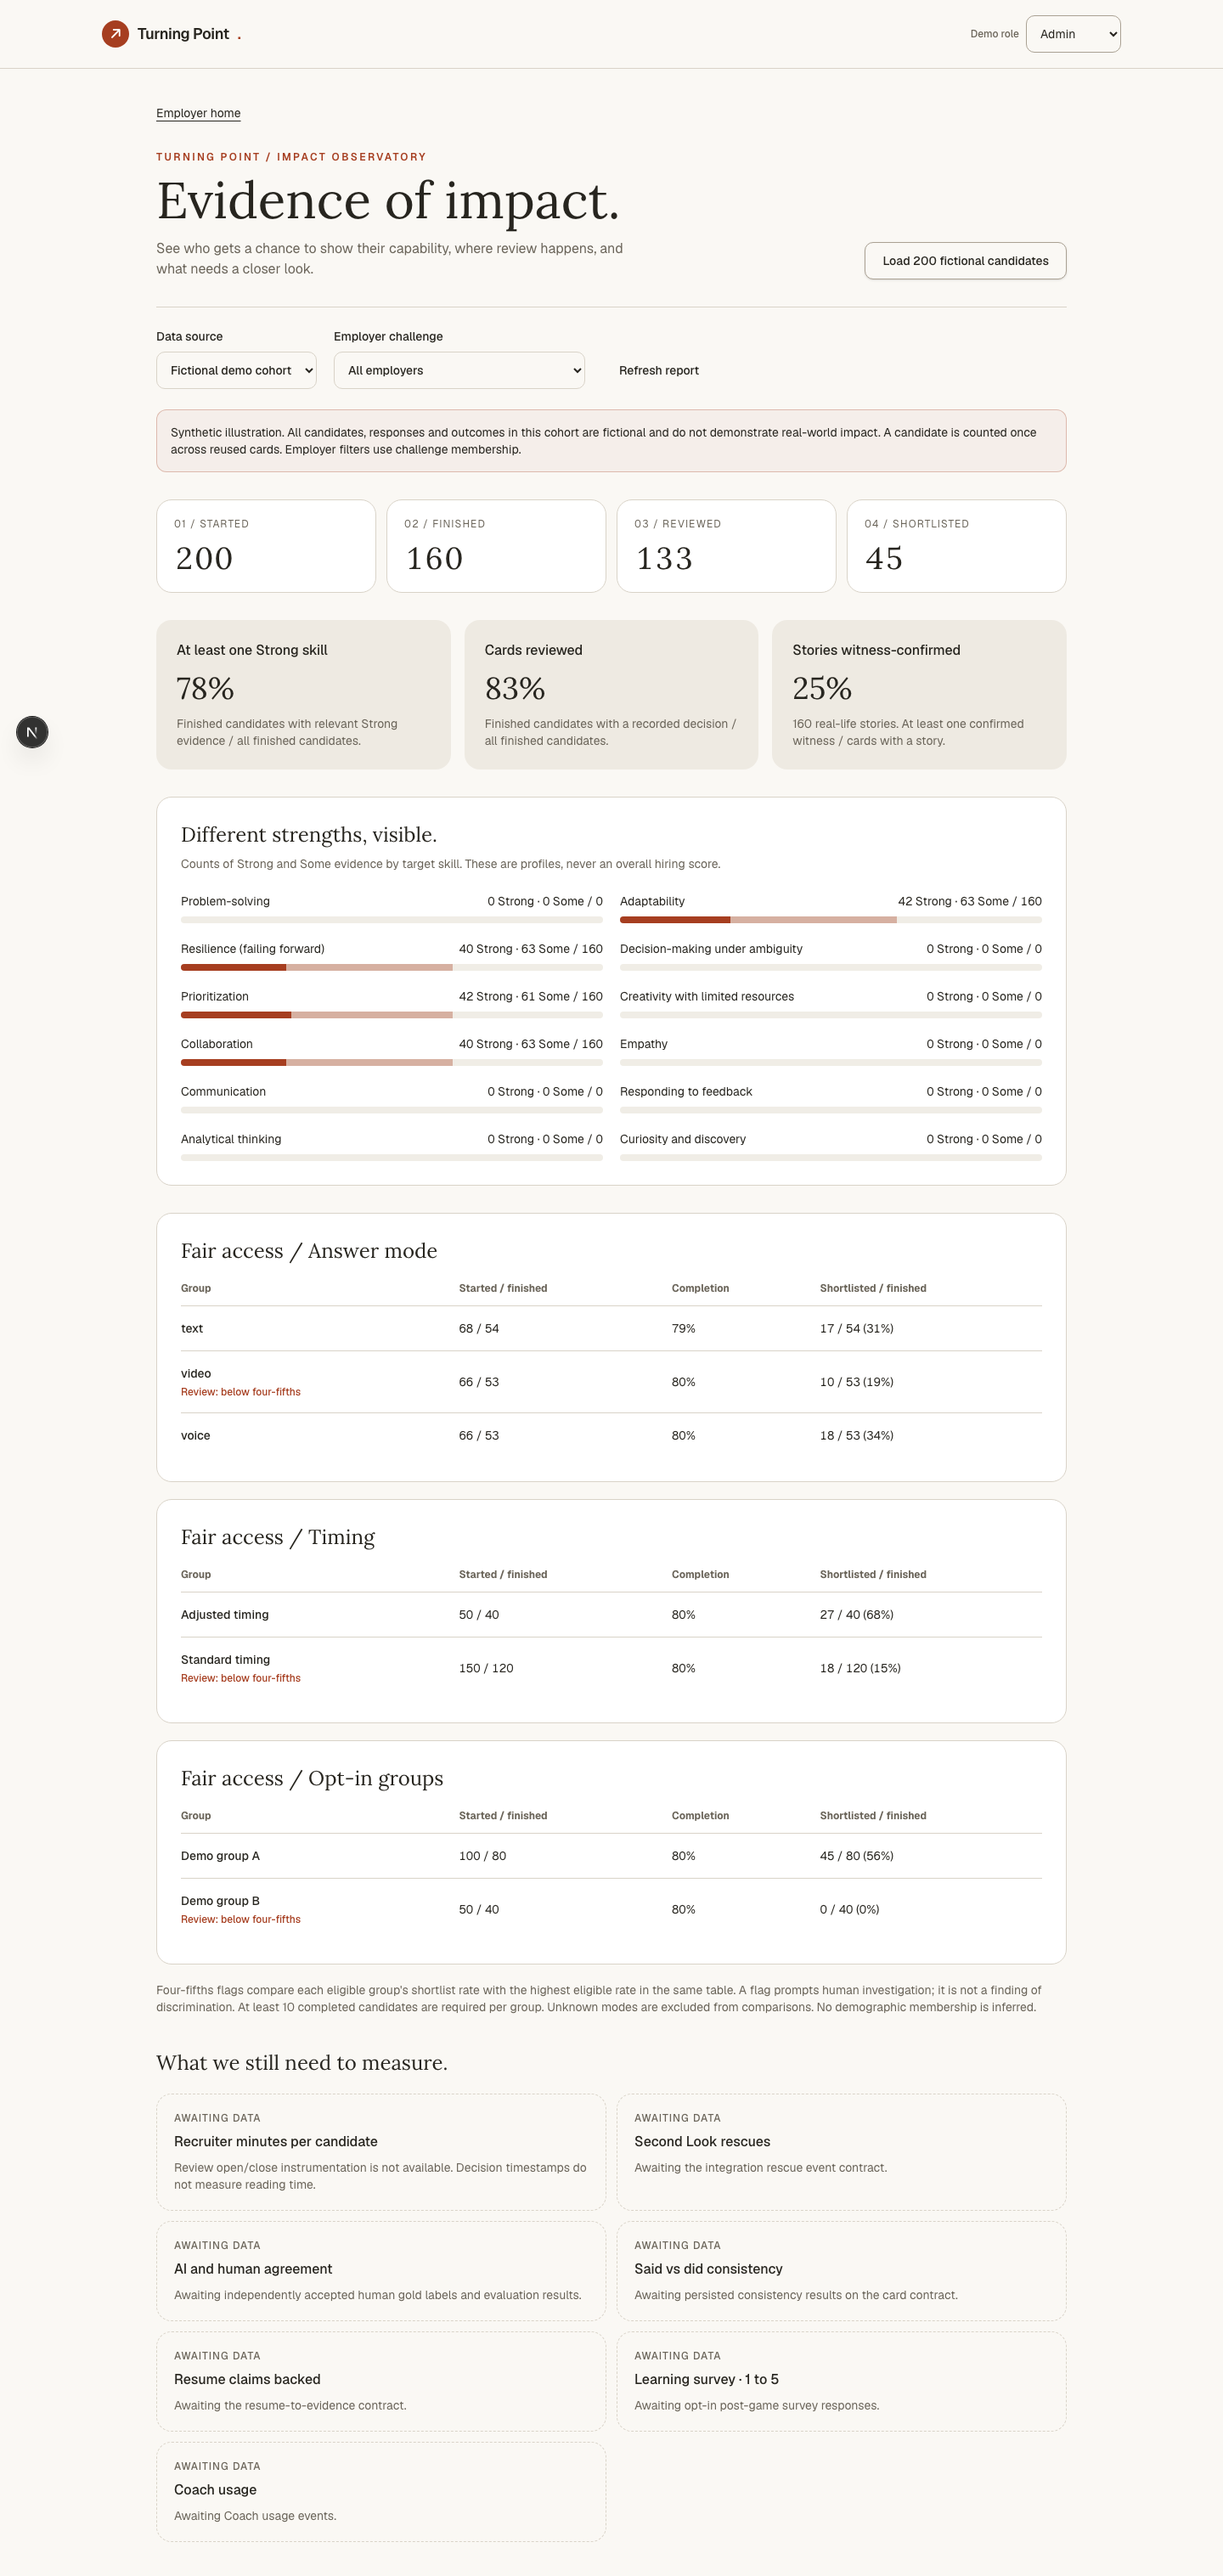
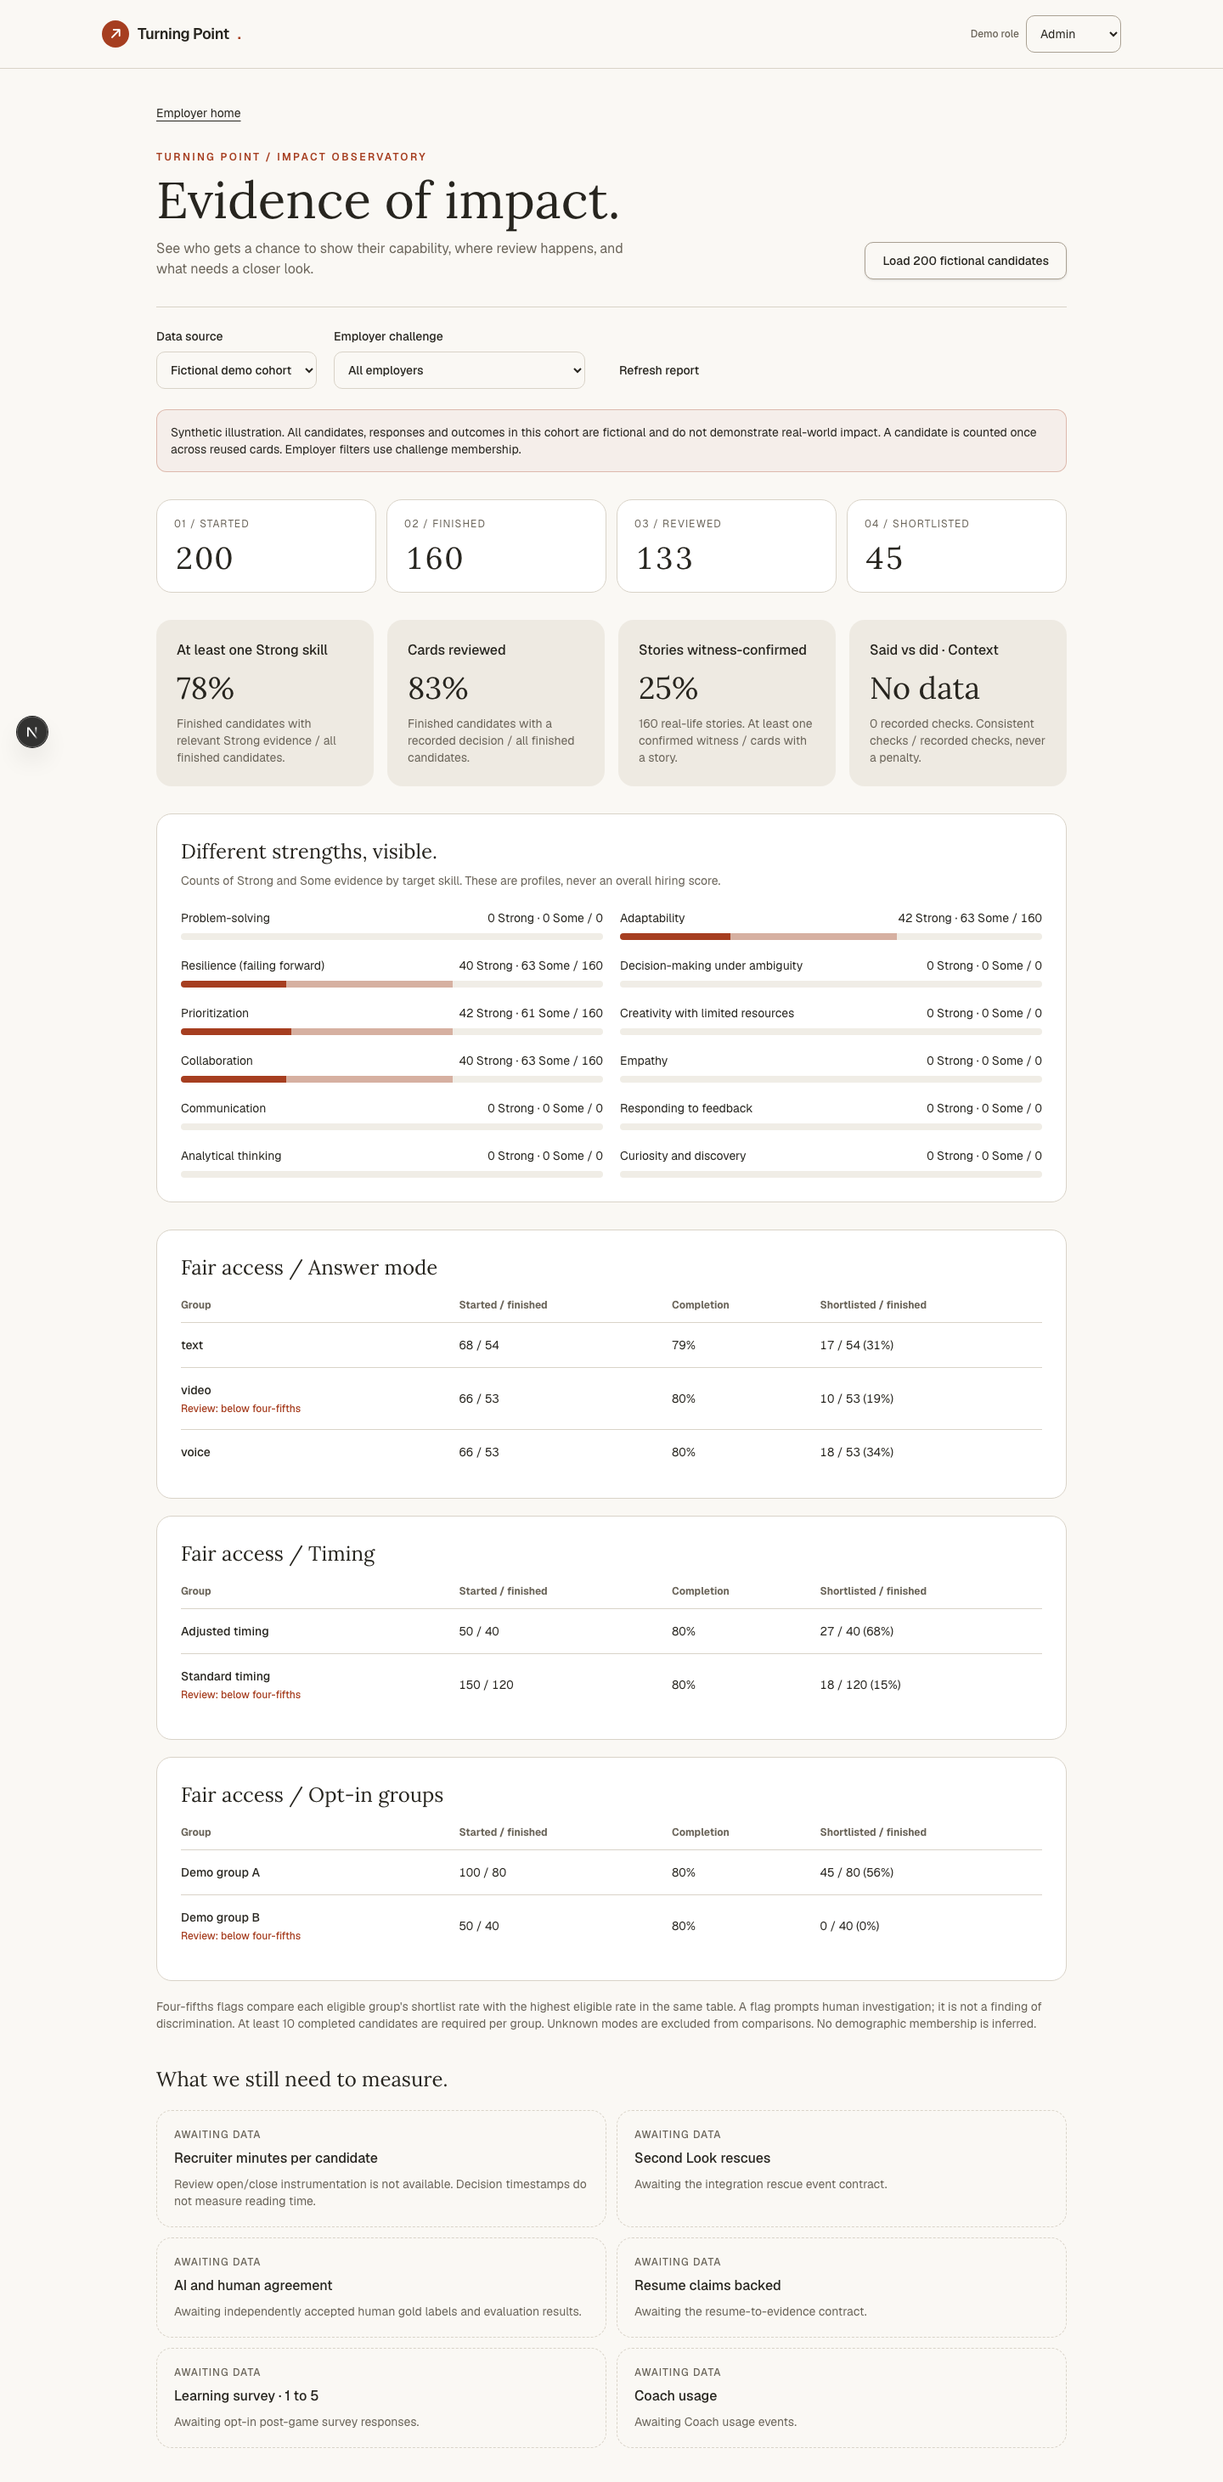
G.1 consume newly persisted consistency context without a penalty

diff --git a/components/admin/ImpactDashboard.tsx b/components/admin/ImpactDashboard.tsx
@@ -13,7 +13,6 @@ const pending = [
   ["Recruiter minutes per candidate", "Review open/close instrumentation is not available. Decision timestamps do not measure reading time."],
   ["Second Look rescues", "Awaiting the integration rescue event contract."],
   ["AI and human agreement", "Awaiting independently accepted human gold labels and evaluation results."],
-  ["Said vs did consistency", "Awaiting persisted consistency results on the card contract."],
   ["Resume claims backed", "Awaiting the resume-to-evidence contract."],
   ["Learning survey · 1 to 5", "Awaiting opt-in post-game survey responses."],
   ["Coach usage", "Awaiting Coach usage events."],
@@ -68,7 +67,7 @@ export function ImpactDashboard() {
     </div>
     <p className="rounded-lg border border-primary/30 bg-primary/5 p-4 text-sm">{source === "demo" ? "Synthetic illustration. All candidates, responses and outcomes in this cohort are fictional and do not demonstrate real-world impact." : "Local browser activity only. This is not a production cohort or a causal impact study."} A candidate is counted once across reused cards. Employer filters use challenge membership.</p>
     <section aria-label="Participation funnel" className="my-8 grid grid-cols-2 gap-3 lg:grid-cols-4">{[["Started", report.started], ["Finished", report.finished], ["Reviewed", report.reviewed], ["Shortlisted", report.shortlisted]].map(([label,value],i) => <div key={label} className="rounded-xl border bg-card p-5"><p className="text-xs uppercase tracking-widest text-muted-foreground">0{i+1} / {label}</p><p className="mt-3 font-display text-4xl tabular-nums" data-testid={`impact-${String(label).toLowerCase()}`}>{value}</p></div>)}</section>
-    <section aria-label="Evidence and confirmation" className="mb-8 grid gap-4 md:grid-cols-3">{[["At least one Strong skill", percent(report.strongRate), "Finished candidates with relevant Strong evidence / all finished candidates."], ["Cards reviewed", percent(report.reviewedRate), "Finished candidates with a recorded decision / all finished candidates."], ["Stories witness-confirmed", percent(report.witnessRate), `${report.stories} real-life stories. At least one confirmed witness / cards with a story.`]].map(([label,value,note]) => <div key={label} className="rounded-xl bg-secondary p-6"><h2 className="font-medium">{label}</h2><p className="mt-3 font-display text-4xl">{value}</p><p className="mt-3 text-sm text-muted-foreground">{note}</p></div>)}</section>
+    <section aria-label="Evidence and confirmation" className="mb-8 grid gap-4 md:grid-cols-2 lg:grid-cols-4">{[["At least one Strong skill", percent(report.strongRate), "Finished candidates with relevant Strong evidence / all finished candidates."], ["Cards reviewed", percent(report.reviewedRate), "Finished candidates with a recorded decision / all finished candidates."], ["Stories witness-confirmed", percent(report.witnessRate), `${report.stories} real-life stories. At least one confirmed witness / cards with a story.`], ["Said vs did · Context", percent(report.consistencyRate), `${report.consistencyChecks} recorded checks. Consistent checks / recorded checks, never a penalty.`]].map(([label,value,note]) => <div key={label} className="rounded-xl bg-secondary p-6"><h2 className="font-medium">{label}</h2><p className="mt-3 font-display text-4xl">{value}</p><p className="mt-3 text-sm text-muted-foreground">{note}</p></div>)}</section>
     <section className="mb-8 rounded-xl border bg-card p-5 sm:p-7"><h2 className="font-display text-2xl">Different strengths, visible.</h2><p className="mt-2 text-sm text-muted-foreground">Counts of Strong and Some evidence by target skill. These are profiles, never an overall hiring score.</p><ul className="mt-6 grid gap-5 sm:grid-cols-2">{report.skills.map((s) => <li key={s.slug}><div className="flex justify-between gap-4 text-sm"><span>{s.name}</span><span className="shrink-0 tabular-nums">{s.strong} Strong · {s.some} Some / {s.total}</span></div><div aria-hidden="true" className="mt-2 flex h-2 overflow-hidden rounded bg-muted"><span className="bg-primary" style={{width: `${s.total ? s.strong/s.total*100 : 0}%`}}/><span className="bg-primary/35" style={{width: `${s.total ? s.some/s.total*100 : 0}%`}}/></div></li>)}</ul></section>
     <div className="grid gap-5"><GroupTable title="Fair access / Answer mode" groups={report.groups}/><GroupTable title="Fair access / Timing" groups={report.timing}/><GroupTable title="Fair access / Opt-in groups" groups={report.demographics}/></div>
     <p className="my-5 text-sm text-muted-foreground">Four-fifths flags compare each eligible group&apos;s shortlist rate with the highest eligible rate in the same table. A flag prompts human investigation; it is not a finding of discrimination. At least 10 completed candidates are required per group. Unknown modes are excluded from comparisons. No demographic membership is inferred.</p>

diff --git a/lib/impact/metrics.ts b/lib/impact/metrics.ts
@@ -45,6 +45,7 @@ export function impactReport(s: Store, challengeId?: string, source: Source = "a
     for (const g of out) g.warning = g.rate !== null && best > 0 && g.rate / best < 0.8;
     return out.sort((a,b) => a.label.localeCompare(b.label));
   };
+  const consistency = cards.flatMap((c) => c.consistency ?? []);
   const strong = cards.filter((c) => c.evidence.some((e) => e.level === "strong")).length;
   const stories = cards.filter((c) => c.realStory);
   const confirmed = stories.filter((c) => c.realStory!.witnesses.some((w) => w.status === "confirmed")).length;
@@ -54,6 +55,7 @@ export function impactReport(s: Store, challengeId?: string, source: Source = "a
     employers: new Set([...cards.map((c) => c.challenge.id), ...runs.map((r) => r.challengeId)]).size,
     strongRate: fraction(strong, cards.length), reviewedRate: fraction(reviewMap.size, cards.length), witnessRate: fraction(confirmed, stories.length), stories: stories.length,
     reviewMinutes: null,
+    consistencyChecks: consistency.length, consistencyRate: fraction(consistency.filter((note) => note.consistent).length, consistency.length),
     skills: SKILLS.map((skill) => ({ ...skill, strong: cards.filter((c) => c.evidence.some((e) => e.skill === skill.slug && e.level === "strong")).length, some: cards.filter((c) => c.evidence.some((e) => e.skill === skill.slug && e.level === "some")).length, total: cards.filter((c) => c.targetSkills.includes(skill.slug)).length })),
     groups: groups("mode"), timing: groups("timing"), demographics: groups("demographic"),
   };

diff --git a/lib/impact/metrics.test.ts b/lib/impact/metrics.test.ts
@@ -15,6 +15,13 @@ describe("impact reporting", () => {
     expect(report.reviewMinutes).toBeNull();
     expect(report.groups).toEqual([]);
   });
+  it("uses persisted consistency context without treating absent notes as a mismatch", () => {
+    const s = fresh();
+    const base = CardSchema.parse(fixture);
+    s.saveCard({ ...base, consistency: [{kind:"order", said:"permit first", did:"permit first", consistent:true}, {kind:"order", said:"vendor first", did:"permit first", consistent:false}] });
+    s.saveCard({ ...base, attemptId:"without-notes" });
+    expect(impactReport(s)).toMatchObject({ consistencyChecks:2, consistencyRate:0.5 });
+  });
   it("counts cards once, deduplicates completed runs, and respects employer scope", () => {
     const s = fresh();
     const card = CardSchema.parse(fixture);

diff --git a/docs/IMPACT_DATA.md b/docs/IMPACT_DATA.md
@@ -8,4 +8,4 @@ Participation metadata may live in a saved run's `extra.impactParticipation`: `{
 
 Fairness tables show completion rate (finished / started) and shortlist rate (shortlisted / finished). Shortlist comparison requires ten completed candidates per group. A rate strictly below 80% of the highest eligible rate in the same table prompts review. No protected trait is inferred, no causal claim is made and no candidate can be filtered or rejected by the report.
 
-Awaiting data: actual recruiter minutes (needs review-open/close events, not card-finish and decision timestamps), Second Look rescue events, independently accepted gold-set eval results, persisted consistency results, resume claim links, learning survey responses and Coach usage. The current `CardSchema` has no kpis/consistency fields despite the handoff describing them; avoid writing fields that schema parsing would strip. Add adapters as those contracts land. G.1 and I.1 stay unchecked.
+Awaiting data: actual recruiter minutes (needs review-open/close events, not card-finish and decision timestamps), Second Look rescue events, independently accepted gold-set eval results, resume claim links, learning survey responses and Coach usage. Current main now persists `kpis` and `consistency` on cards. The consistency tile reads recorded checks and shows consistent checks / all recorded checks, with the denominator and a context-only label. Missing notes contribute nothing to the denominator. It is never a penalty or a measure of a person's truthfulness. Add further adapters as their contracts land. G.1 and I.1 stay unchecked.

diff --git a/docs/demo/V2_SCRIPT.md b/docs/demo/V2_SCRIPT.md
@@ -21,7 +21,7 @@ Use a disposable browser profile. Load the fictional cohort explicitly on the im
 
 | Run | Status | Reason |
 | --- | --- | --- |
-| 1 | Blocked | Current main does not contain the integrated map UI, Value Mapper, Copilot, Resume vs Evidence or Second Look flow. |
+| 1 | Blocked | The map UI is now in main, but Value Mapper, Copilot, Resume vs Evidence and Second Look are not yet integrated. |
 | 2 | Blocked | Same integration dependencies. No full-flow rehearsal or timing is claimed. |
 
 Div's agents: post the integrated preview and demo shortcut contract after Parts A to D land. Then run this script twice, record actual elapsed time and issues, and only tick I.1 when both finish without a bug. Keep awaiting-data tiles until their measured contracts are available.
